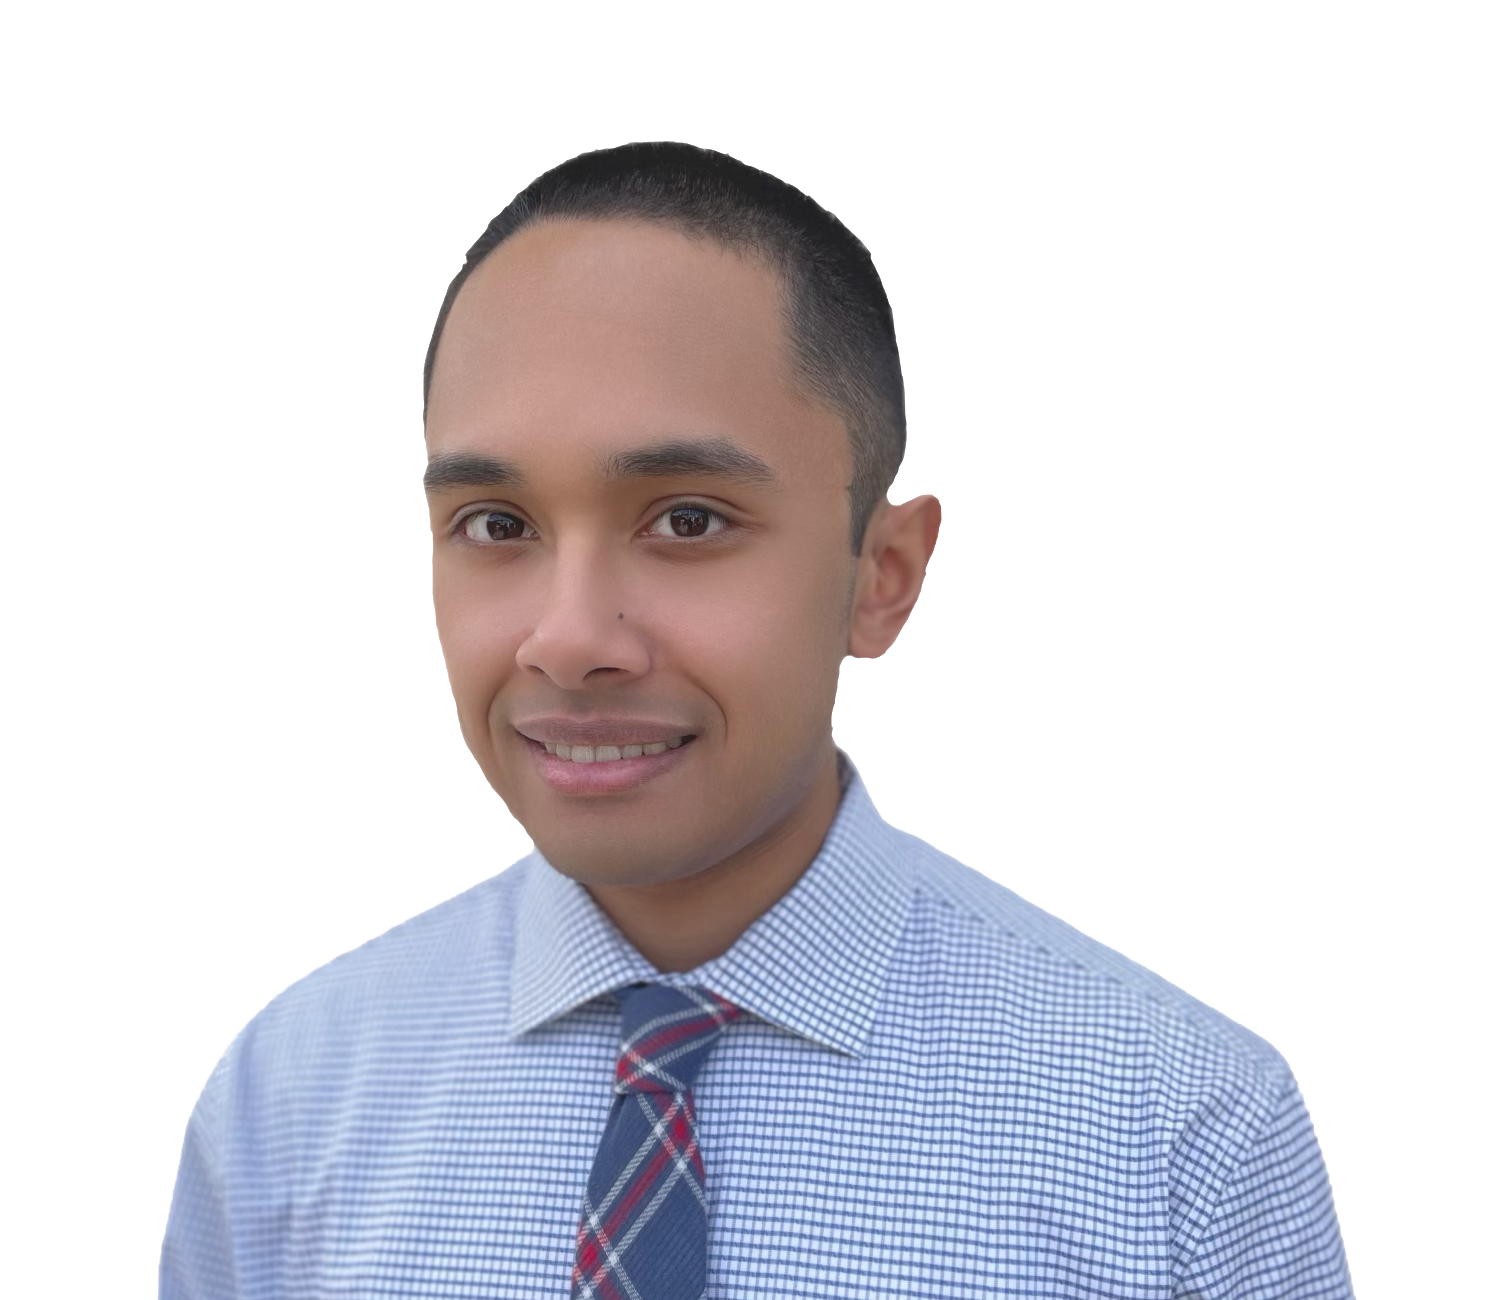
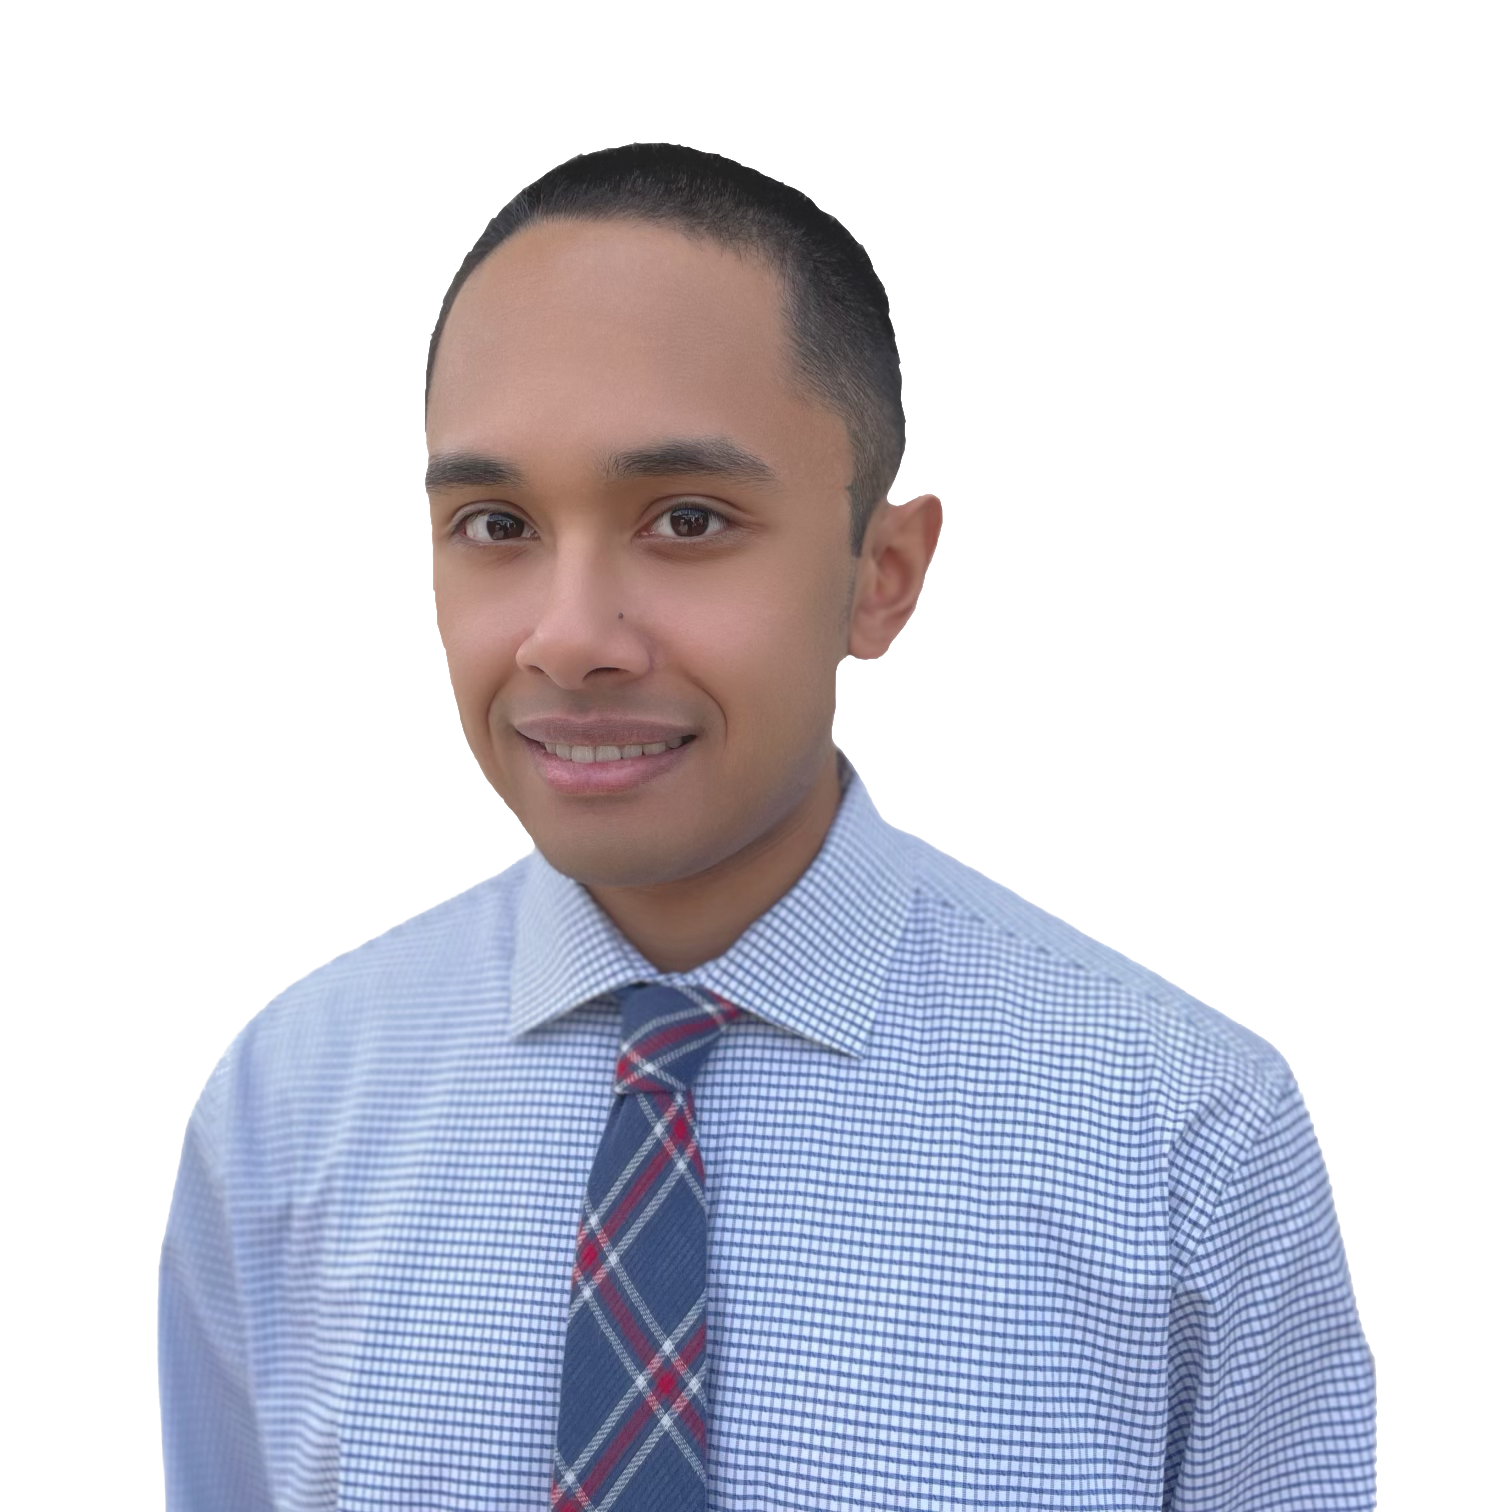
edited files

Changed region(s): [[0.0933, 0.0923, 0.9325, 1.0]]

diff --git a/index.html b/index.html
@@ -13,7 +13,8 @@
         <link rel="preconnect" href="https://fonts.gstatic.com" crossorigin>
 
         <!-- Note: change it whenever you added or removed a google font-->
-        <link href="https://fonts.googleapis.com/css2?family=Ibarra+Real+Nova&family=Lato:ital,wght@1,400;1,700&family=Roboto+Slab&display=swap" rel="stylesheet">
+        <link href="https://fonts.googleapis.com/css2?family=Ibarra+Real+Nova&family=Lato:ital,wght@1,400;1,700&family=Roboto+Slab:wght@400;800&display=swap" rel="stylesheet">
+        
         <!-- CSS Stylesheets-->
         <link rel="stylesheet" href="https://cdn.jsdelivr.net/npm/bootstrap@4.0.0/dist/css/bootstrap.min.css" integrity="sha384-Gn5384xqQ1aoWXA+058RXPxPg6fy4IWvTNh0E263XmFcJlSAwiGgFAW/dAiS6JXm" crossorigin="anonymous">
         <link rel="stylesheet" href="styles.css">
@@ -56,9 +57,9 @@
                 <img class="landscape-image" src="./images/landscape.jpg" alt="landscape">
                 <div class="row">
                     <div class="col-lg-6 profile-desc">
-                        <div style="font-size: 60px; margin-bottom: 10px;">Hey, I'm Ivan!</div>
-                        <div>I am a software developer who enjoys designing web applications to service customers. Check out the work that I designed so far.</div>
-                        <button class="btn btn-lg btn-outline-dark browse-projects-btn" style="margin-top: 20px;">BROWSE MY PROJECTS</button>
+                        <div class='profile-intro'>Hey, I'm Ivan!</div>
+                        <div>I am a software developer who is passionate about designing applications. Check out the work that I done so far.</div>
+                        <button class="btn btn-lg btn-outline-light browse-projects-btn" style="margin-top: 20px;">BROWSE MY PROJECTS</button>
                     </div>
                     <div class="col-lg-6 profile-image"><img src="./images/profile-image.png" alt="profile image"></div>
                 </div>
@@ -66,23 +67,11 @@
 
         <!-- Hobbies -->
         <section class="about" id="scrollspyHeading1">
-            <h1 style="padding-top: 20px;">About Me</h1>
-            <div class="row">
-                <div class="col-lg-4 about-tile">
-                    <h2 class="about-title hobbies">Hobbies</h2>
-                    <div class="about-desc">I enjoy playing video games, hanging out with friends, and exploring outside. I also love to get a cup of coffee to fill my energy for the day. &#9749</div>
-                </div>
-                <div class="col-lg-4 about-tile">
-                    <h2 class="about-title skills">Skills</h2>
-                    <div class="about-desc">
-                        <div>I am proficient with C++ and Java.</div>
-                        <div style="margin: 10px 0;">I use HTML, CSS, Bootstrap, and JavaScript to design web applications. NodeJS, ExpressJS, and EJS are web utilities I use to design backend services.</div>
-                        <div><span style="font-weight: 700;">Other skills include the following</span>: Python, Lua, MySQL, ReactJS, MySQL, and MongoDB.</div>
-                    </div>
-                </div>
-                <div class="col-lg-4 about-tile">
-                    <h2 class="about-title accomplishments">Accomplishments</h2>
-                </div>
+            <h1 class='about-heading'>About</h1>
+            <div class="about-discussion p1">
+                My passion of video games and latest technologies allow me to start my career in working
+                at a technological world. I have been designing games and useful applications for people 
+                to enjoy. 
             </div>
         </section>
 

diff --git a/styles.css b/styles.css
@@ -1,4 +1,10 @@
+html, body {
+    max-width: 100%;
+    overflow-x: hidden;
+}
+
 body {
+    background-color: #fff;
     font-family: 'Roboto Slab', serif;
     text-align: center;
 }
@@ -33,7 +39,8 @@ body {
 /** ADVERTISEMENT **/
 
 .advertisement {
-    background-color: rgb(207,210,207,0.7); /* may need to change later */
+    background-color: rgba(0, 0, 0, 0.6); /* may need to change later */
+    color:#fff;
     font-family: 'Lato', sans-serif;
     position: relative;
 }
@@ -55,10 +62,17 @@ body {
     height: 500px;
 }
 
-/* Profiled Image */
+/* Profile Image */
 .profile-image img{
-    height: 35rem;
-    width: 40rem;
+    height: 42rem;
+    width: 42rem;
+}
+
+.profile-intro{
+    font-size: 80px; 
+    margin-bottom: 10px; 
+    font-family: 'Roboto Slab', serif; 
+    font-weight: 800;
 }
 
 .profile-desc {
@@ -74,35 +88,26 @@ body {
 /** ABOUT **/
 
 .about {
-    background-color: #fff;
+    background-color: #E9DAC1;
+    position: relative;
 }
 
-.about .row{
-    margin-top: 40px;
-}
-
-.about-tile {
-    font-family: 'Lato', sans-serif;
-    padding: 20px 40px 0;
-    border: 4px dashed black;
-    border-radius: 15%;
-}
-
-.about-title {
-    margin-bottom: 20px;
+.about-heading{
     font-weight: 700;
+    font-size: 50px;
+    padding: 90px 0 30px;
 }
 
-.about-desc {
-
-    font-size: 20px;
+.about-discussion{
+    margin: auto 250px;
+    font-size: 22px;
     text-align: left;
 }
+
 
 /** FOOTER **/
 
 footer {
-    background-color: #fff;
     padding: 10px 0;
     width: 100%;
 }
@@ -111,11 +116,20 @@ footer {
 
 @media (max-width: 991px) {
 
+    /* Navigator */
+
+    .social-media .fa-brands{
+        display: none;
+    }
+
+    /* Advertisement */
+
     .advertisement .row{
         top: 100px
     }
 
     .profile-desc {
+        padding-left: 0px;
         text-align: center;
     }
 
@@ -123,9 +137,10 @@ footer {
         display: none;
     }
 
-    .social-media .fa-brands{
-        display: none;
-    }
+    /* About */
+
+
+    /* Bootstrap CSS */
 
     .nav-item {
         margin-right: 0;
